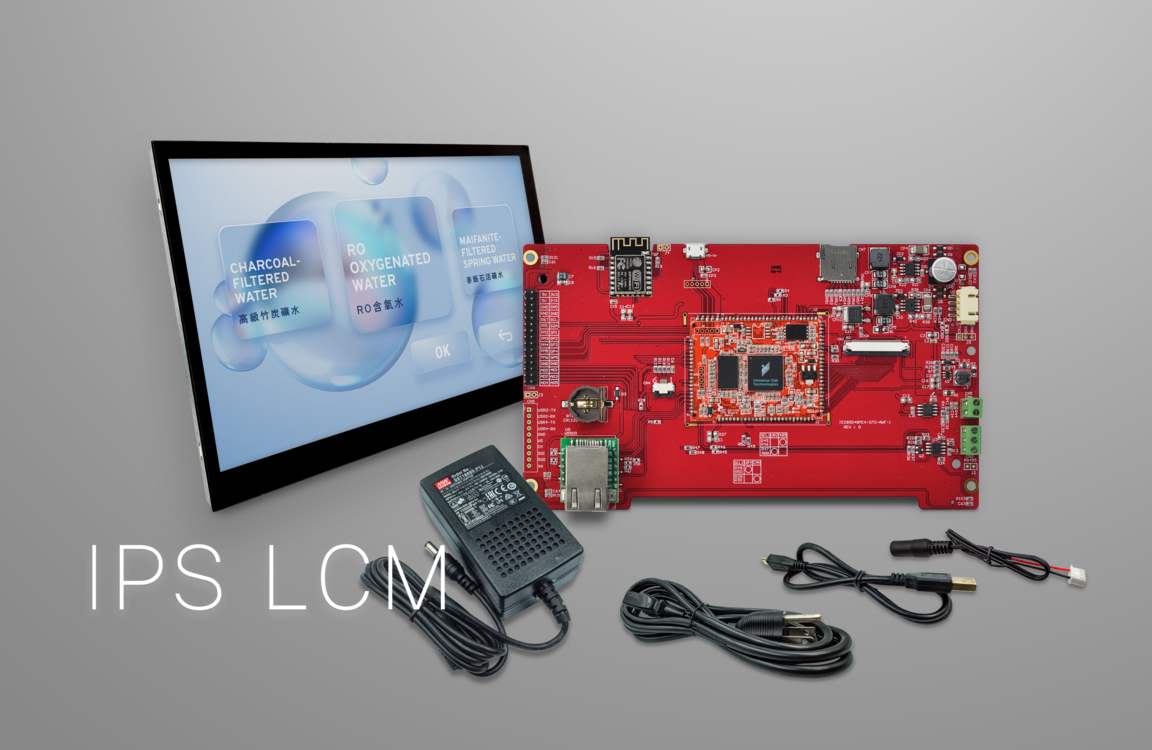
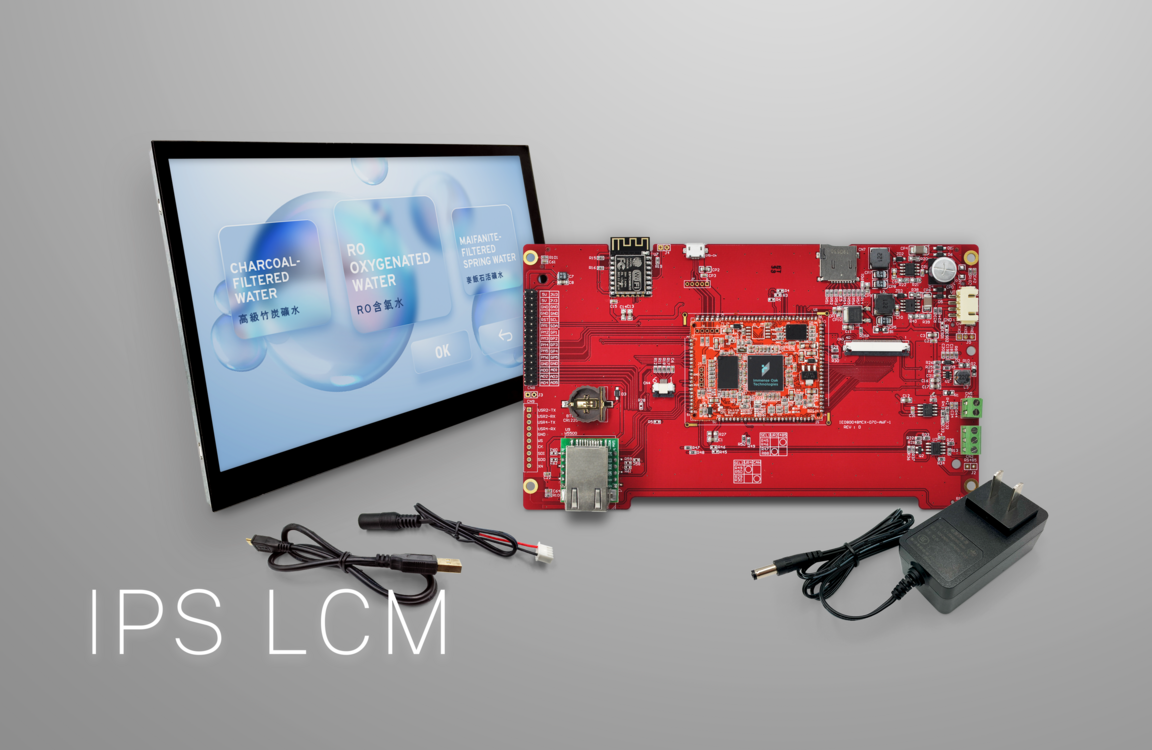
2024/05/25 001

Changed region(s): [[0.2188, 0.5827, 0.5312, 0.92], [0.5312, 0.6133, 0.9375, 0.92], [0.0625, 0.7053, 0.1875, 0.8893]]

diff --git a/videos/educational/index.html b/videos/educational/index.html
@@ -1337,6 +1337,31 @@
             </a>
           </div>
           
+          <div class="downlist">
+          
+            <a href="/videos/view.html?jqB5HZ2AoAY">
+          
+              <div class="bg">
+                <div class="line"></div>
+                <div class="bb"></div>
+                <div class="sss">
+                  <img class="img-responsive" src="/images/iot/sss.svg" />
+                </div>
+              </div>
+              <div class="date">
+                <div class="text">May 24 2024</div>
+              </div>
+              <div class="title">
+                <div class="text">
+                  Gradient Rectangle Grid
+                </div>
+                <div class="sss">
+                  <img class="img-responsive" src="/images/iot/sss.svg" />
+                </div>
+              </div>
+            </a>
+          </div>
+          
         </div>
         <div>
           <div class="product_list_title">ADE System Widget Educational Videos</div>

diff --git a/product/nexus_panel/sk-ie10260mca-101abj/index.html b/product/nexus_panel/sk-ie10260mca-101abj/index.html
@@ -271,8 +271,8 @@
                       IPS LCM<br />
                         
                       
-                      Power Supply, AC/DC cables<br />
-                      USB, I/O Cables<br />
+                      Power Supply, USB Cable<br />
+                      <br />
                       
                     
                   </div>
@@ -326,8 +326,6 @@
           <div class="featurebox"><div class="featuretitle">The Starter Kit includes</div><div class="featurelistbox">
               <ul><li>IE10260MCA-101ABJ Smart HMI Solution
 </li><li>AC/DC power adaptor
-</li><li>AC power cord
-</li><li>DC power cord
 </li><li>USB cable for download
 </li></ul>
             </div>

diff --git a/product/nexus_panel/sk-ie08048mca-070abj/index.html b/product/nexus_panel/sk-ie08048mca-070abj/index.html
@@ -271,8 +271,8 @@
                       IPS LCM<br />
                         
                       
-                      Power Supply, AC/DC cables<br />
-                      USB, I/O Cables<br />
+                      Power Supply, DC cable<br />
+                      USB Cable<br />
                       
                     
                   </div>
@@ -326,7 +326,6 @@
           <div class="featurebox"><div class="featuretitle">The Starter Kit includes</div><div class="featurelistbox">
               <ul><li>IE08048MCA-070ABJ Smart HMI Solution
 </li><li>AC/DC power adaptor
-</li><li>AC power cord
 </li><li>DC power cord
 </li><li>USB cable for download
 </li></ul>

diff --git a/product/nexus_panel/sk-ie08048mca-070awg/index.html b/product/nexus_panel/sk-ie08048mca-070awg/index.html
@@ -269,8 +269,8 @@
                         
                         
                       
-                      Power Supply, AC/DC cables<br />
-                      USB, I/O Cables<br />
+                      Power Supply, DC cable<br />
+                      USB Cable<br />
                       
                     
                   </div>
@@ -324,7 +324,6 @@
           <div class="featurebox"><div class="featuretitle">The Starter Kit includes</div><div class="featurelistbox">
               <ul><li>IE08048MCA-070AWG Smart HMI Solution
 </li><li>AC/DC power adaptor
-</li><li>AC power cord
 </li><li>DC power cord
 </li><li>USB cable for download
 </li></ul>
